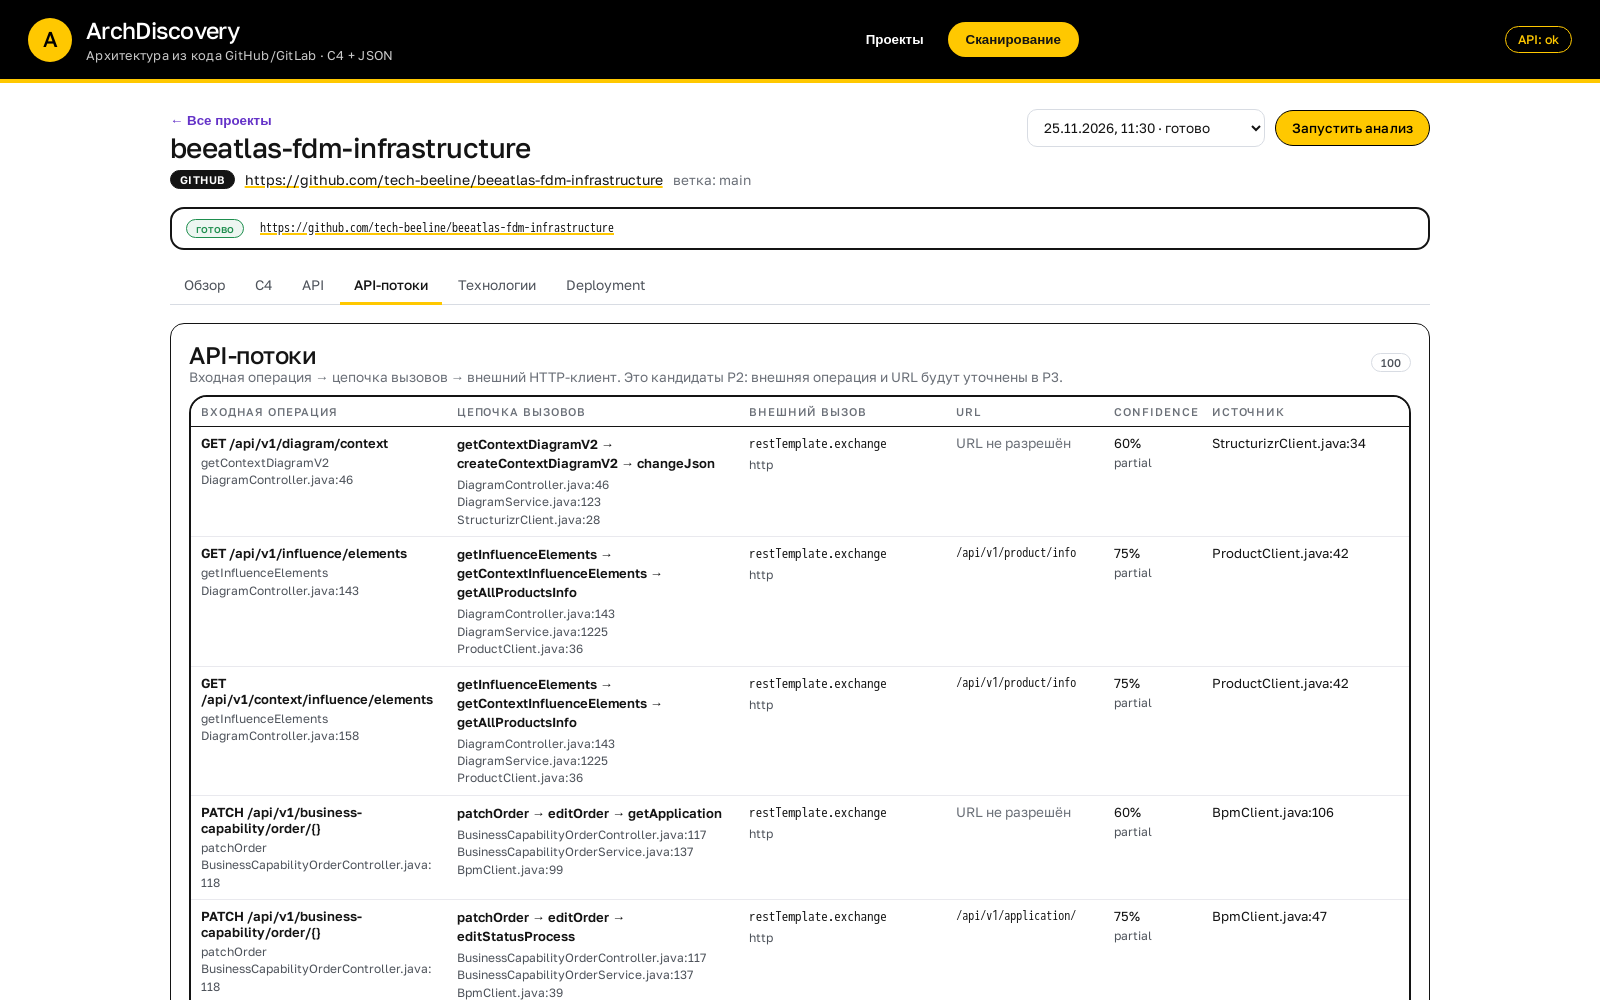
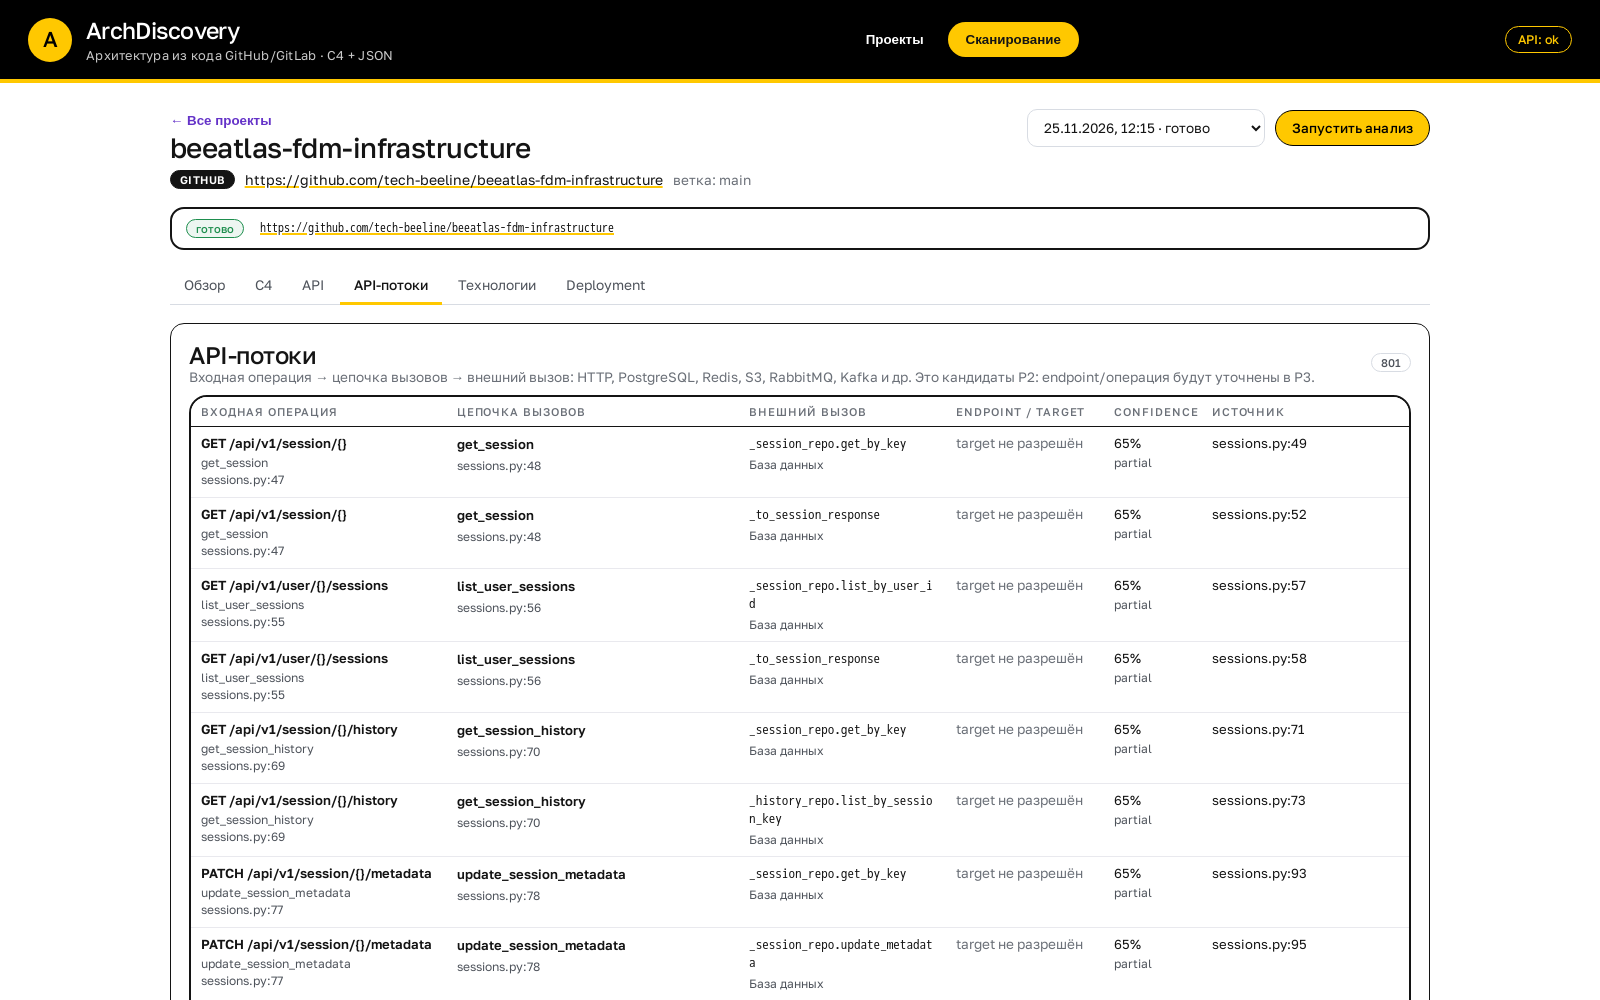
feat: не-HTTP внешние вызовы в API flow
- классификация PostgreSQL/Redis/S3/RabbitMQ/Kafka/MongoDB/Elasticsearch/database
- output.kind и targets в call graph, отчёте и UI
- вкладка API-потоки показывает тип внешнего вызова и target
- BeeAtlas: 801 внешний вызов, включая 187 PostgreSQL и 552 database
- ADR-0025, plan/test-plan/runbook/changelog, screenshot
- 92 теста, coverage 86.65%

diff --git a/web/src/components/ApiFlowsPanel.tsx b/web/src/components/ApiFlowsPanel.tsx
@@ -8,6 +8,22 @@ function basename(path: string): string {
   return path.split("/").pop() ?? path;
 }
 
+function kindLabel(kind: string): string {
+  const labels: Record<string, string> = {
+    http: "HTTP",
+    postgresql: "PostgreSQL",
+    redis: "Redis",
+    s3: "S3",
+    rabbitmq: "RabbitMQ",
+    kafka: "Kafka",
+    mongodb: "MongoDB",
+    elasticsearch: "Elasticsearch",
+    database: "База данных",
+    mysql: "MySQL",
+  };
+  return labels[kind] ?? kind;
+}
+
 export function ApiFlowsPanel({ flows }: { flows: ApiFlow[] }) {
   return (
     <div className="stack">
@@ -16,8 +32,9 @@ export function ApiFlowsPanel({ flows }: { flows: ApiFlow[] }) {
           <div>
             <h2>API-потоки</h2>
             <p className="muted">
-              Входная операция → цепочка вызовов → внешний HTTP-клиент. Это
-              кандидаты P2: внешняя операция и URL будут уточнены в P3.
+              Входная операция → цепочка вызовов → внешний вызов:
+              HTTP, PostgreSQL, Redis, S3, RabbitMQ, Kafka и др. Это
+              кандидаты P2: endpoint/операция будут уточнены в P3.
             </p>
           </div>
           <span className="badge">{flows.length}</span>
@@ -29,7 +46,7 @@ export function ApiFlowsPanel({ flows }: { flows: ApiFlow[] }) {
                 <th>Входная операция</th>
                 <th>Цепочка вызовов</th>
                 <th>Внешний вызов</th>
-                <th>URL</th>
+                <th>Endpoint / target</th>
                 <th>Confidence</th>
                 <th>Источник</th>
               </tr>
@@ -64,14 +81,19 @@ export function ApiFlowsPanel({ flows }: { flows: ApiFlow[] }) {
                   </td>
                   <td>
                     <code>{flow.output.callee}</code>
-                    <div className="flow-meta">{flow.output.kind}</div>
+                    <div className="flow-meta">{kindLabel(flow.output.kind)}</div>
                   </td>
                   <td>
-                    {flow.output.urls.length > 0 ? (
-                      flow.output.urls.map((url) => <div key={url} className="flow-url">{url}</div>)
-                    ) : (
-                      <span className="muted">URL не разрешён</span>
-                    )}
+                    {[...flow.output.urls, ...(flow.output.targets ?? [])]
+                      .filter((value, index, values) => values.indexOf(value) === index)
+                      .slice(0, 4)
+                      .map((value) => (
+                        <div key={value} className="flow-url">{value}</div>
+                      ))}
+                    {flow.output.urls.length === 0 &&
+                      (flow.output.targets ?? []).length === 0 && (
+                        <span className="muted">target не разрешён</span>
+                      )}
                   </td>
                   <td>
                     {percent(flow.confidence)}

diff --git a/web/src/types.ts b/web/src/types.ts
@@ -188,6 +188,7 @@ export interface ApiFlow {
     file: string;
     line: number;
     urls: string[];
+    targets?: string[];
     kind: string;
   };
   confidence: number;

diff --git a/backend/src/archdiscovery/analyzer/syntax/callgraph.py b/backend/src/archdiscovery/analyzer/syntax/callgraph.py
@@ -18,6 +18,40 @@ HTTP_CALL_MARKERS = (
     "httpservice",
     "superagent",
 )
+
+EXTERNAL_PATTERNS = (
+    ("redis", re.compile(r"(?i)(redis|jedis|lettuce|redisson|ioredis)")),
+    (
+        "postgresql",
+        re.compile(r"(?i)(postgres|psycopg|asyncpg|jdbc|jdbctemplate|r2dbc)"),
+    ),
+    ("s3", re.compile(r"(?i)(\bs3\b|boto3|aws-sdk/client-s3|minio)")),
+    ("rabbitmq", re.compile(r"(?i)(rabbit|pika|amqp|rabbittemplate)")),
+    ("kafka", re.compile(r"(?i)(kafka|kafkatemplate|confluent|kafkajs)")),
+    ("mongodb", re.compile(r"(?i)(mongo|mongotemplate)")),
+    ("elasticsearch", re.compile(r"(?i)(elasticsearch|opensearch)")),
+    ("database", re.compile(r"(?i)(sqlalchemy|datasource|repository)")),
+)
+
+GENERIC_EXTERNAL_METHODS = {
+    "execute": {"postgresql", "database"},
+    "query": {"postgresql", "database"},
+    "queryForObject": {"postgresql", "database"},
+    "commit": {"postgresql", "database"},
+    "fetchone": {"postgresql", "database"},
+    "fetchall": {"postgresql", "database"},
+    "send": {"kafka"},
+    "send_message": {"kafka"},
+    "publish": {"rabbitmq", "kafka"},
+    "basic_publish": {"rabbitmq"},
+    "consume": {"kafka", "rabbitmq"},
+    "get": {"redis"},
+    "set": {"redis"},
+    "hget": {"redis"},
+    "hset": {"redis"},
+    "put_object": {"s3"},
+    "get_object": {"s3"},
+}
 MAX_DEPTH = 6
 
 
@@ -76,6 +110,33 @@ def _same_scope(
     return same_class or (candidates if len(candidates) == 1 else [])
 
 
+def _external_kind(
+    call: dict[str, Any],
+    source_file: dict[str, Any],
+    targets: list[dict[str, Any]],
+    files_by_path: dict[str, dict[str, Any]],
+) -> str | None:
+    if _http_like(call):
+        return "http"
+    callee = call["callee"]
+    target_text = " ".join(
+        f"{item.get('class') or ''} {files_by_path.get(item['file'], {}).get('imports', [])}"
+        for item in targets
+    )
+    haystack = f"{callee} {target_text}"
+    for kind, pattern in EXTERNAL_PATTERNS:
+        if pattern.search(haystack):
+            return kind
+    method = _last(callee)
+    imports = " ".join(source_file.get("imports", []))
+    allowed = GENERIC_EXTERNAL_METHODS.get(method)
+    if allowed:
+        for kind, pattern in EXTERNAL_PATTERNS:
+            if kind in allowed and pattern.search(imports):
+                return kind
+    return None
+
+
 def build_outbound_calls(
     files: list[dict[str, Any]], handlers: list[dict[str, Any]]
 ) -> list[dict[str, Any]]:
@@ -91,6 +152,7 @@ def build_outbound_calls(
             calls_by_owner[owner].append(call)
 
     client_classes = _client_classes(files)
+    files_by_path = {item["file"]: item for item in files}
     outbound: list[dict[str, Any]] = []
 
     for handler in handlers:
@@ -127,7 +189,13 @@ def build_outbound_calls(
                     by_name,
                 )
                 terminal_class = any(target.get("class") in client_classes for target in targets)
-                if _http_like(call) or terminal_class:
+                external_kind = _external_kind(
+                    call,
+                    files_by_path.get(method["file"], {}),
+                    targets,
+                    files_by_path,
+                )
+                if external_kind is not None or terminal_class:
                     outbound_key: tuple[Any, ...] = (
                         call["file"],
                         call["line"],
@@ -158,9 +226,10 @@ def build_outbound_calls(
                                 "file": call["file"],
                                 "line": call["line"],
                                 "urls": call.get("urls", []),
-                                "kind": "http",
+                                "targets": call.get("literals", [])[:5],
+                                "kind": external_kind or "http",
                             },
-                            "confidence": 0.75 if call.get("urls") else 0.6,
+                            "confidence": 0.75 if call.get("urls") else 0.65,
                             "status": "partial",
                         }
                     )

diff --git a/backend/tests/test_external_calls.py b/backend/tests/test_external_calls.py
@@ -1,0 +1,27 @@
+from pathlib import Path
+
+from archdiscovery.analyzer.syntax.analyze import analyze_syntax
+
+
+def test_classifies_database_cache_storage_and_messaging(tmp_path: Path) -> None:
+    (tmp_path / "app.py").write_text(
+        "import redis\n"
+        "import psycopg\n"
+        "import boto3\n"
+        "import pika\n"
+        "from kafka import KafkaProducer\n"
+        "from fastapi import APIRouter\n"
+        'router = APIRouter(prefix="/orders")\n'
+        '@router.post("/{order_id}/pay")\n'
+        "async def pay(order_id: str):\n"
+        '    redis_client.get("order:" + order_id)\n'
+        '    db.execute("update orders set paid=true")\n'
+        '    s3.put_object(Bucket="billing", Key="invoice.pdf")\n'
+        '    channel.basic_publish(exchange="", routing_key="paid", body=b"x")\n'
+        '    producer.send("paid-orders", b"x")\n',
+        encoding="utf-8",
+    )
+    result = analyze_syntax(tmp_path, tmp_path / "syntax.json")
+    kinds = {item["output"]["kind"] for item in result["outbound_calls"]}
+    assert kinds == {"redis", "postgresql", "s3", "rabbitmq", "kafka"}
+    assert result["stats"]["outbound_calls"] == 5

diff --git a/backend/src/archdiscovery/analyzer/syntax/index.py b/backend/src/archdiscovery/analyzer/syntax/index.py
@@ -184,9 +184,11 @@ def analyze_file(path: Path, repo: Path) -> dict[str, Any]:
                 }
             )
         if node.type in CALL_TYPES:
+            strings = _strings(node, source)
             urls: list[str] = []
-            for value in _strings(node, source):
+            for value in strings:
                 urls.extend(URL_RE.findall(value))
+            literals = [value.strip("'\"") for value in strings]
             name = _call_name(node, source)
             calls.append(
                 {
@@ -196,6 +198,7 @@ def analyze_file(path: Path, repo: Path) -> dict[str, Any]:
                     "caller": current_function or "",
                     "owner_class": current_class,
                     "urls": urls,
+                    "literals": literals,
                     "http_client_like": bool(HTTP_CLIENT_RE.search(name)),
                 }
             )

diff --git a/docs/adr/0025-external-services-flow.md b/docs/adr/0025-external-services-flow.md
@@ -1,0 +1,54 @@
+# ADR-0025: Не-HTTP внешние вызовы в API flow
+
+- **Статус:** Принято
+- **Дата:** 2026-11-25
+
+## Контекст
+
+API flow учитывал только HTTP-клиентов. Реальные handler'ы обращаются к
+PostgreSQL, Redis, S3, RabbitMQ, Kafka, MongoDB, Elasticsearch — это такие же
+внешние зависимости и они должны попадать в `api_flows`.
+
+## Решение
+
+Call graph классифицирует terminal-вызовы по технологии:
+
+- `postgresql` — JDBC/JdbcTemplate/psycopg/asyncpg/R2DBC;
+- `database` — Spring Data/Repository, SQLAlchemy/DataSource;
+- `redis` — RedisTemplate/Jedis/Lettuce/ioredis;
+- `s3` — AWS SDK/MinIO/boto3;
+- `rabbitmq` — RabbitTemplate/pika/amqplib;
+- `kafka` — KafkaTemplate/kafka-python/kafkajs;
+- `mongodb`, `elasticsearch`, `mysql`.
+
+Классификация учитывает:
+
+- callee и target-класс;
+- imports исходного/целевого файла;
+- типовые методы (`execute`, `query`, `send`, `publish`, `get/set`, ...).
+
+Результат:
+
+```json
+{
+  "output": {
+    "callee": "redis_client.get",
+    "kind": "redis",
+    "urls": [],
+    "targets": ["order:42"]
+  },
+  "confidence": 0.65,
+  "status": "partial"
+}
+```
+
+`kind` отображается в UI; для HTTP остаётся `http`, добавляются `targets`.
+Сопоставление с конкретным внешним API/очередью/БД — P3.
+
+## Последствия
+
+- (+) DB/cache/object storage/messaging видны в API flow и JSON.
+- (+) UI различает HTTP, PostgreSQL, Redis, S3, RabbitMQ, Kafka.
+- (−) Классификация эвристическая; `database` может означать любой SQL-репозиторий.
+- (−) DSN/host/queue/bucket из конфигов пока не разрешаются.
+- (−) Возможны ложные срабатывания на именах переменных/импортах.

diff --git a/docs/runbook.md b/docs/runbook.md
@@ -136,7 +136,7 @@ docker run --rm -v archdiscovery_data:/data -v "$PWD":/backup alpine \
 | C4 пустая/мелкая | откройте `GET /api/runs/{id}/c4.svg`, используйте масштаб 150–200%; Mermaid — как fallback |
 | JSON-отчёт пустой/404 | проверьте `GET /api/runs/{id}/report`; для старых запусков отчёт собирается лениво, для новых — на этапе analysis; логи `worker` |
 | `/handlers` пустой | artifact `syntax` в `/results`; проверьте языки (Java/TS/Python), логи `analyzer`, наличие Tree-sitter в образе (`pip show tree-sitter-language-pack`) |
-| `/outbound-calls` пустой | P2 ищет только разрешимые вызовы (Feign, RestTemplate/WebClient, axios/fetch, requests/httpx); проверьте `outbound_calls` в artifact и лимиты глубины |
+| `/outbound-calls` пустой | P2 ищет HTTP и внешние БД/кэш/очереди по callee/imports; проверьте `outbound_calls` в artifact и лимиты глубины |
 | 502 от `web` на `/api/*` | nginx не должен кешировать IP `api`; проверьте `resolver 127.0.0.11` и переменную `$api_upstream` в `web/nginx.conf`, пересоберите `web` |
 | Порт занят | измените `API_PORT`/`WEB_PORT` в `.env` |
 | Очередь растёт | масштабируйте `worker`/`analyzer`, проверьте Redis |

diff --git a/docs/plan/api-flow-analysis.md b/docs/plan/api-flow-analysis.md
@@ -237,7 +237,7 @@ GET /api/runs/{id}/api-flows
 |---|---|---|---|
 | P0 | Spike Tree-sitter vs Doxygen; схема `ApiFlowEdge` | **Завершён** — [отчёт](api-flow-poc.md) | 2–3 дня |
 | P1 | Syntax index + route/handler detection (Java/TS/Python) | **Завершён** — artifact `syntax`, `/handlers` | 1–2 недели |
-| P2 | Call graph/resolver + client calls для Java/TS/Python | **Завершён** — `outbound_calls`, `/outbound-calls`, `api_flows` в отчёте и вкладка UI | 2–3 недели |
+| P2 | Call graph/resolver + client calls для Java/TS/Python | **Завершён** — HTTP + PostgreSQL/Redis/S3/RabbitMQ/Kafka; `outbound_calls`, `api_flows`, вкладка UI | 2–3 недели |
 | P3 | URL resolution + match с API-каталогом + confidence | `api_flows` | 1–2 недели |
 | P4 | JSONB/API/UI, тесты, фича-флаг | UI + endpoint | 1 неделя |
 | P5 | C#/Go/C++/Kotlin, стабилизация, удаление Doxygen после parity | multi-language | 2–4 недели |
@@ -245,6 +245,7 @@ GET /api/runs/{id}/api-flows
 Приоритет: Java (Spring/Feign) → TypeScript (Nest/axios) → Python (FastAPI/requests) → C#/Go → C++.
 
 P1 реализован: artifact `syntax`, `GET /api/runs/{id}/handlers`, ADR-0023.
+P2 включает внешние не-HTTP зависимости (ADR-0025).
 
 ## 8. Тестирование и приёмка
 

diff --git a/docs/plan/test-plan.md b/docs/plan/test-plan.md
@@ -171,6 +171,7 @@ lint (ruff, black, mypy, eslint, tsc)
 - [ ] API/Deployment вкладки скрываются при отсутствии данных.
 - [ ] Tree-sitter: Spring/NestJS/FastAPI route + handler, Feign исключён, тесты/source ranges.
 - [ ] P2 call graph: handler → service → HTTP-клиент, лимиты глубины/outbound, без `fetchone`-ложных срабатываний.
+- [ ] Внешние вызовы: PostgreSQL/Redis/S3/RabbitMQ/Kafka/MongoDB классифицируются и видны в `api_flows`.
 - [ ] Все 5 языков дают хотя бы базовый результат.
 - [ ] Deployment-модель извлекается из всех 5 источников.
 - [ ] API извлекается из всех 4 групп источников.

diff --git a/CHANGELOG.md b/CHANGELOG.md
@@ -6,6 +6,8 @@
 
 - **UI/JSON: API-потоки** — массив `api_flows` в `/report` и отдельная вкладка
   «API-потоки»; вкладка скрывается без данных.
+- **API flow: не-HTTP внешние вызовы** — PostgreSQL, Redis, S3, RabbitMQ, Kafka,
+  MongoDB, Elasticsearch, SQL-репозитории; `output.kind`/`targets` в UI и JSON.
 - **P2: call graph handler → outbound HTTP-кандидат** для Java/TS/Python:
   Spring/Feign/RestTemplate, Nest/axios/fetch, FastAPI/httpx/requests;
   artifact `syntax.outbound_calls`, `GET /api/runs/{id}/outbound-calls`.

diff --git a/docs/adr/README.md b/docs/adr/README.md
@@ -32,6 +32,7 @@
 | [0022](0022-postgres-only.md) | PostgreSQL-only, без Neo4j | Принято |
 | [0023](0023-tree-sitter-syntax.md) | Tree-sitter syntax-index для API-handler'ов | Принято |
 | [0024](0024-outbound-callgraph.md) | Call graph handler → outbound API | Принято |
+| [0025](0025-external-services-flow.md) | Не-HTTP внешние вызовы в API flow | Принято |
 
 ## Шаблон записи
 
